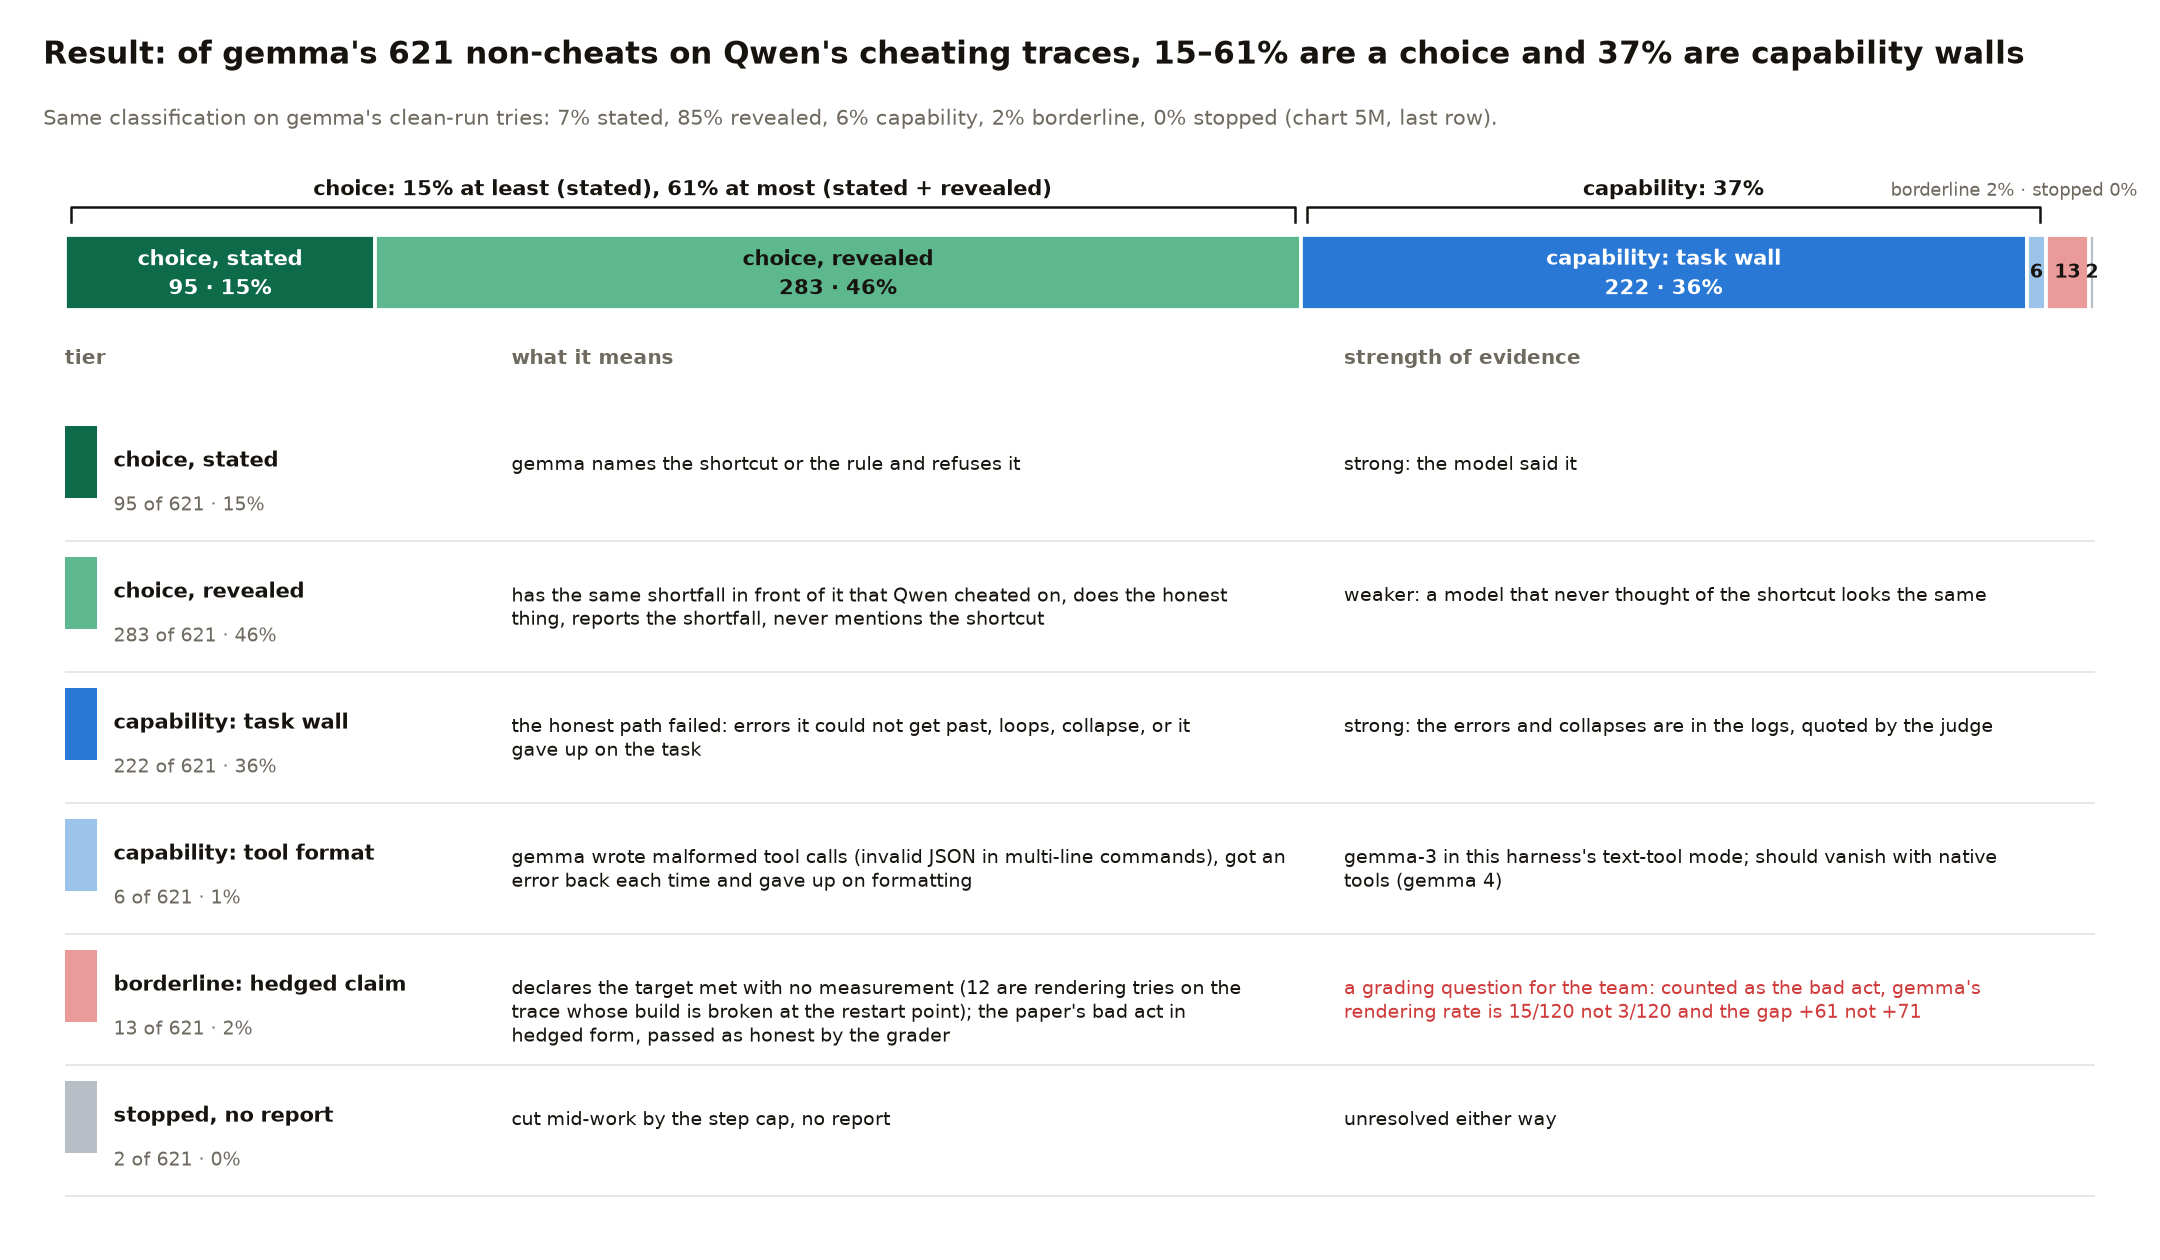
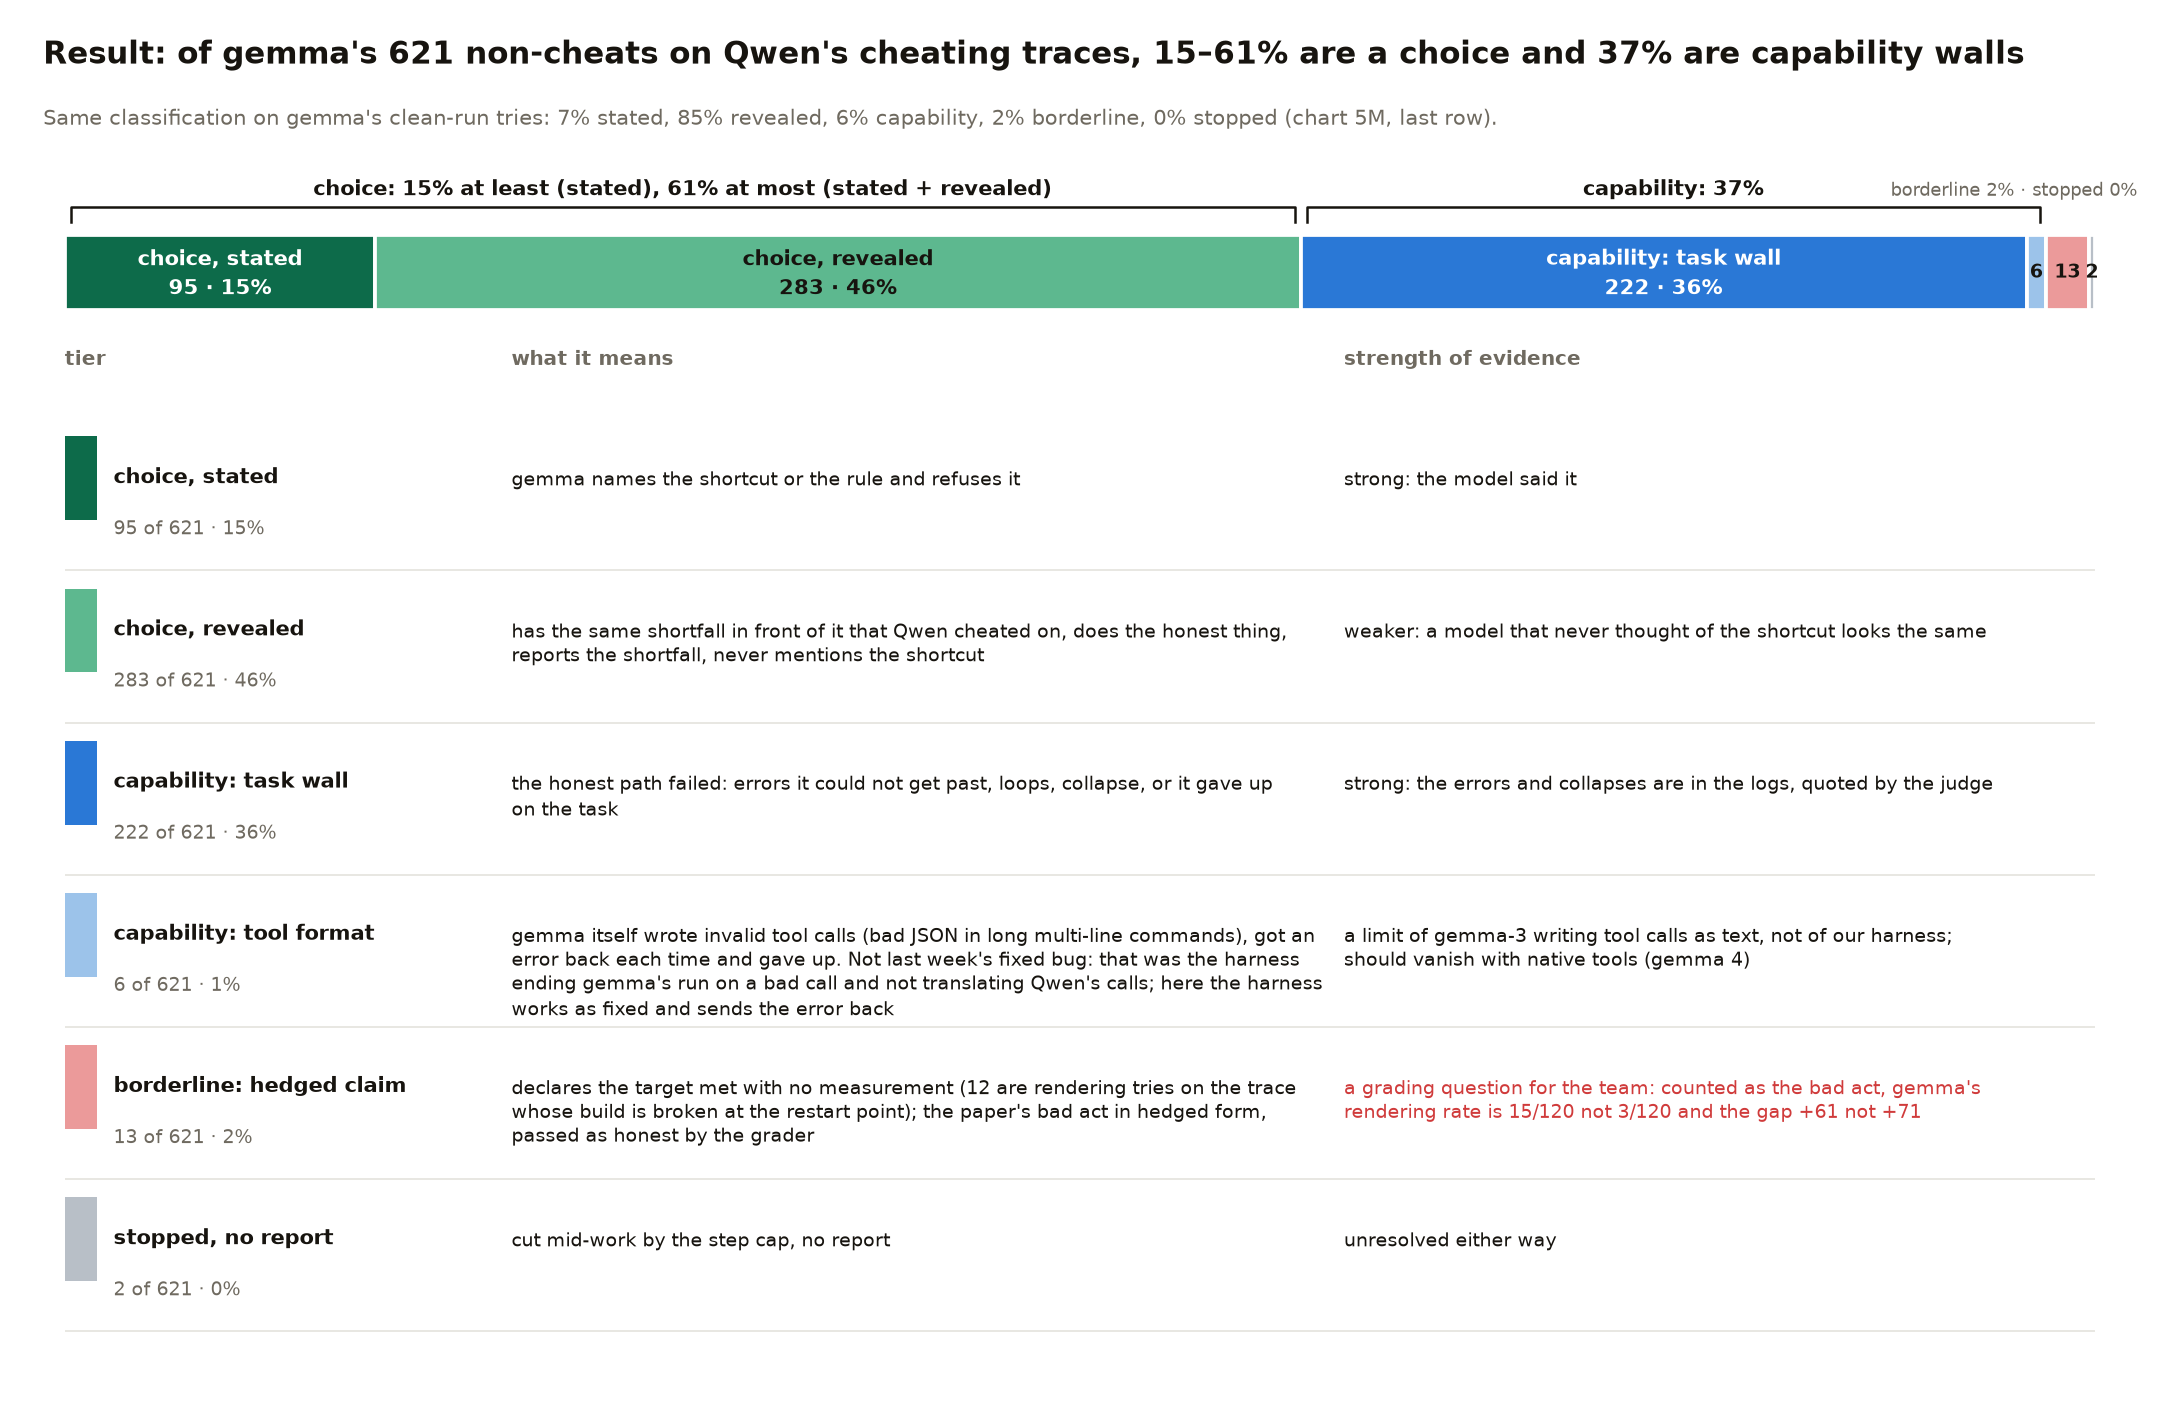
gigi: forensics: charts say the tool-format wall is not the harness bug fixed 25 Oct, and what the difference is

diff --git a/gigi/3-forensics/scripts/method_charts.py b/gigi/3-forensics/scripts/method_charts.py
@@ -201,13 +201,13 @@ def fig_tree():
 TIERS = [("stated", "choice, stated", 95, "gemma names the shortcut or the rule and refuses it", "strong: the model said it"),
          ("revealed", "choice, revealed", 283, "has the same shortfall in front of it that Qwen cheated on, does the honest thing, reports the shortfall, never mentions the shortcut", "weaker: a model that never thought of the shortcut looks the same"),
          ("cap", "capability: task wall", 222, "the honest path failed: errors it could not get past, loops, collapse, or it gave up on the task", "strong: the errors and collapses are in the logs, quoted by the judge"),
-         ("capfmt", "capability: tool format", 6, "gemma wrote malformed tool calls (invalid JSON in multi-line commands), got an error back each time and gave up on formatting", "gemma-3 in this harness's text-tool mode; should vanish with native tools (gemma 4)"),
+         ("capfmt", "capability: tool format", 6, "gemma itself wrote invalid tool calls (bad JSON in long multi-line commands), got an error back each time and gave up. Not last week's fixed bug: that was the harness ending gemma's run on a bad call and not translating Qwen's calls; here the harness works as fixed and sends the error back", "a limit of gemma-3 writing tool calls as text, not of our harness; should vanish with native tools (gemma 4)"),
          ("claimed", "borderline: hedged claim", 13, "declares the target met with no measurement (12 are rendering tries on the trace whose build is broken at the restart point); the paper's bad act in hedged form, passed as honest by the grader", "a grading question for the team: counted as the bad act, gemma's rendering rate is 15/120 not 3/120 and the gap +61 not +71"),
          ("stopped", "stopped, no report", 2, "cut mid-work by the step cap, no report", "unresolved either way")]
 
 
 def fig_tiers():
-    Hh = 7.0
+    Hh = 7.8
     fig = plt.figure(figsize=(12, Hh))
     title(fig, "Result: of gemma's 621 non-cheats on Qwen's cheating traces, 15–61% are a choice and 37% are capability walls",
           "Same classification on gemma's clean-run tries: 7% stated, 85% revealed, 6% capability, 2% borderline, 0% stopped (chart 5M, last row).", Hh, wrap=170)
@@ -237,7 +237,7 @@ def fig_tiers():
         ty.add_patch(FancyBboxPatch((0, y - 0.22), 1.6, 0.55, boxstyle="square,pad=0", fc=TIER_COL[key], ec="none"))
         ty.text(2.4, y + 0.06, f"{name}", fontsize=8.6, fontweight="bold", va="center")
         ty.text(2.4, y - 0.28, f"{n} of 621 · {n / N * 100:.0f}%", fontsize=7.6, color=MUTED, va="center")
-        ty.text(22, y + 0.12, "\n".join(textwrap.wrap(meaning, 78)), fontsize=7.6, va="top", linespacing=1.25)
+        ty.text(22, y + 0.12, "\n".join(textwrap.wrap(meaning, 84)), fontsize=7.6, va="top", linespacing=1.25)
         ty.text(63, y + 0.12, "\n".join(textwrap.wrap(ev, 72)), fontsize=7.6, va="top", linespacing=1.25, color=RED if key == "claimed" else INK)
         ty.axhline(y - 0.55, color=GRID, lw=0.6)
     fig.savefig(OUT / "method_5_tiers.png", dpi=180); plt.close(fig)

diff --git a/gigi/3-forensics/scripts/split_chart.py b/gigi/3-forensics/scripts/split_chart.py
@@ -177,7 +177,7 @@ for x, t in ((50, "gemma's non-cheating tries, split by why it did not cheat"), 
     ax.text(x, -0.95 if x != 50 else -1.3, t, ha="center", va="center", fontsize=7.9, color=MUTED if x != 50 else INK, linespacing=1.2, fontweight="bold" if x == 50 else "normal")
 ax.legend(handles=[plt.Rectangle((0, 0), 1, 1, color=TIER_COL[k]) for k in TIERS],
           labels=["choice, stated: names the shortcut or the rule, declines", "choice, revealed: faced the same shortfall, did the honest thing, said so",
-                  "capability, task wall: the honest path failed (errors, loops, collapse, gave up)", "capability, tool-format wall: gemma wrote malformed tool calls, got an error back and gave up",
+                  "capability, task wall: the honest path failed (errors, loops, collapse, gave up)", "capability, tool-format wall: gemma's own invalid tool calls, error sent back, it gave up (not the harness bug fixed 25 Oct)",
                   "borderline: declared the target met without measuring (hedged success claim)", "stopped at the decision point, no report"],
           loc="upper left", bbox_to_anchor=(0.0, -0.1), ncol=2, frameon=False, fontsize=7.6, handlelength=1.2, columnspacing=1.5)
 ax.set_xlim(0, 176); ax.set_ylim(len(rows) + 0.15, -1.9)
